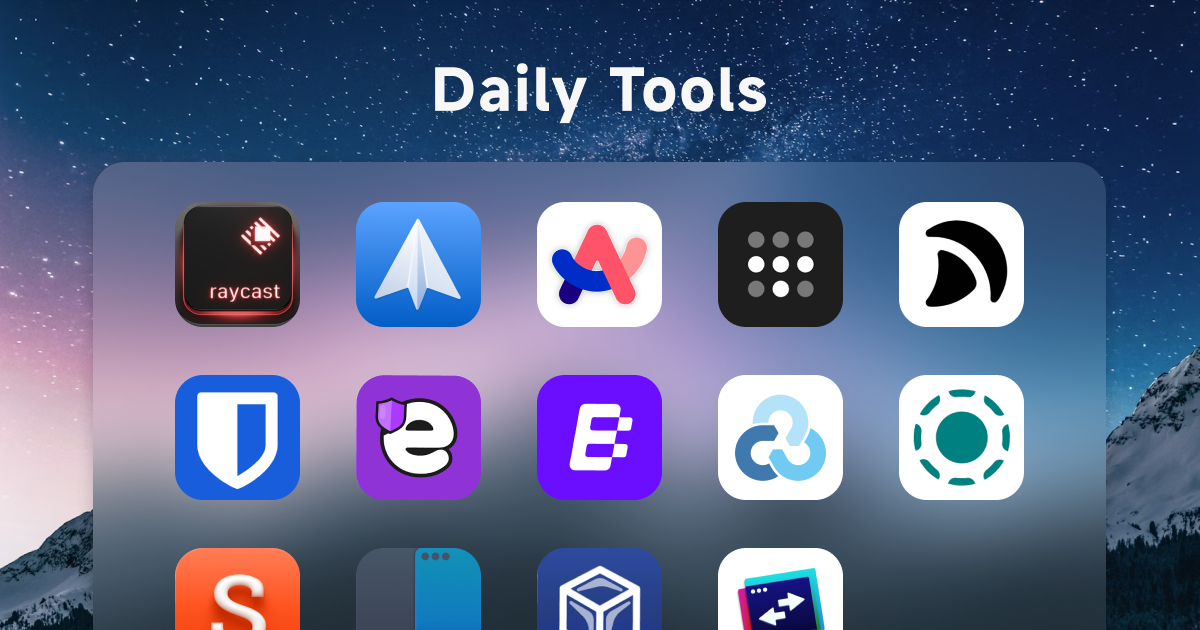
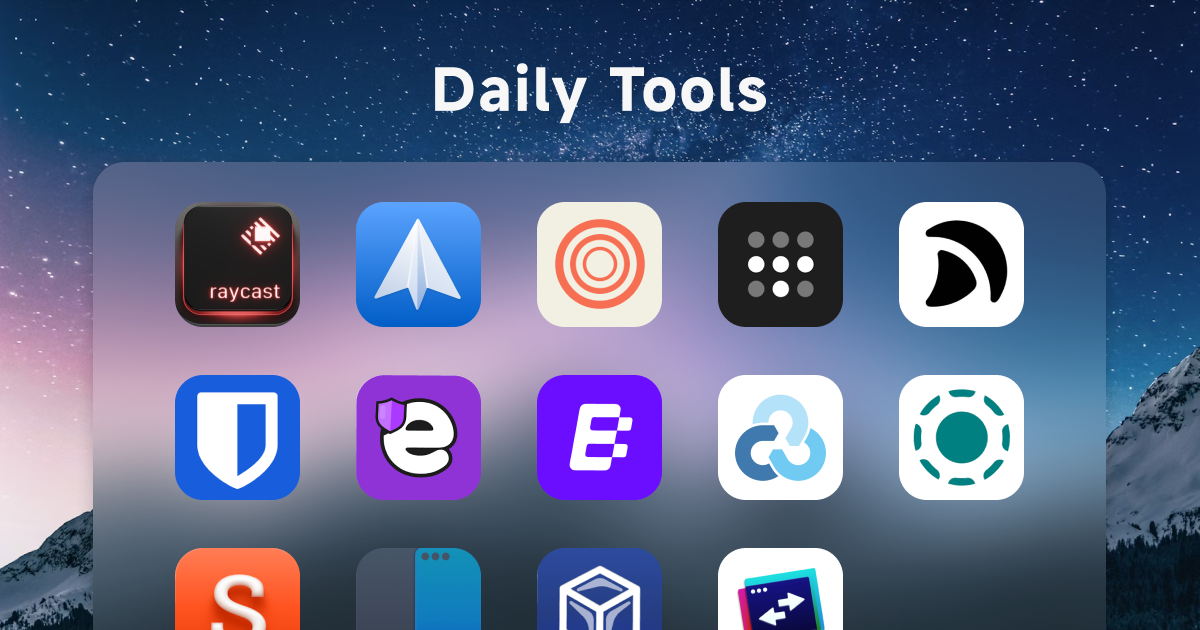
feat: refine dark mode palette and cross-link mactools articles
Tune the dark mode three-shade palette to #1E2227 / #23272F / #323842 and align article cards, headings, official-link buttons, and floating action buttons to the new tones (article cards collapse to background color, h2 drops the theme accent, float buttons take a subtle bordered look). Swap the Arc entry in mactools-daily for Zen Browser with an Arc-to-Zen callout and refreshed cover, then add 延伸閱讀 buttons across mactools-daily/dev so each app links to its dedicated guide. Also fix the articles index list staying invisible until scrolled past 10% by relaxing the IntersectionObserver threshold, and tighten the footer link/app columns into separate column wrappers.

Changed region(s): [[0.4317, 0.3016, 0.555, 0.5429]]

diff --git a/src/styles/global.css b/src/styles/global.css
@@ -86,19 +86,19 @@
 }
 
 .dark {
-  --background: #1E2023;
+  --background: #1E2227;
   --foreground: oklch(0.985 0 0);
-  --card: oklch(0.205 0 0);
+  --card: #23272F;
   --card-foreground: oklch(0.985 0 0);
-  --popover: oklch(0.205 0 0);
+  --popover: #23272F;
   --popover-foreground: oklch(0.985 0 0);
   --primary: oklch(0.922 0 0);
-  --primary-foreground: oklch(0.205 0 0);
-  --secondary: oklch(0.269 0 0);
+  --primary-foreground: #23272F;
+  --secondary: #323842;
   --secondary-foreground: oklch(0.985 0 0);
-  --muted: oklch(0.269 0 0);
+  --muted: #323842;
   --muted-foreground: oklch(0.708 0 0);
-  --accent: oklch(0.269 0 0);
+  --accent: #323842;
   --accent-foreground: oklch(0.985 0 0);
   --destructive: oklch(0.704 0.191 22.216);
   --border: oklch(1 0 0 / 10%);
@@ -109,11 +109,11 @@
   --chart-3: oklch(0.769 0.188 70.08);
   --chart-4: oklch(0.627 0.265 303.9);
   --chart-5: oklch(0.645 0.246 16.439);
-  --sidebar: oklch(0.205 0 0);
+  --sidebar: #23272F;
   --sidebar-foreground: oklch(0.985 0 0);
   --sidebar-primary: oklch(0.488 0.243 264.376);
   --sidebar-primary-foreground: oklch(0.985 0 0);
-  --sidebar-accent: oklch(0.269 0 0);
+  --sidebar-accent: #323842;
   --sidebar-accent-foreground: oklch(0.985 0 0);
   --sidebar-border: oklch(1 0 0 / 10%);
   --sidebar-ring: oklch(0.556 0 0);
